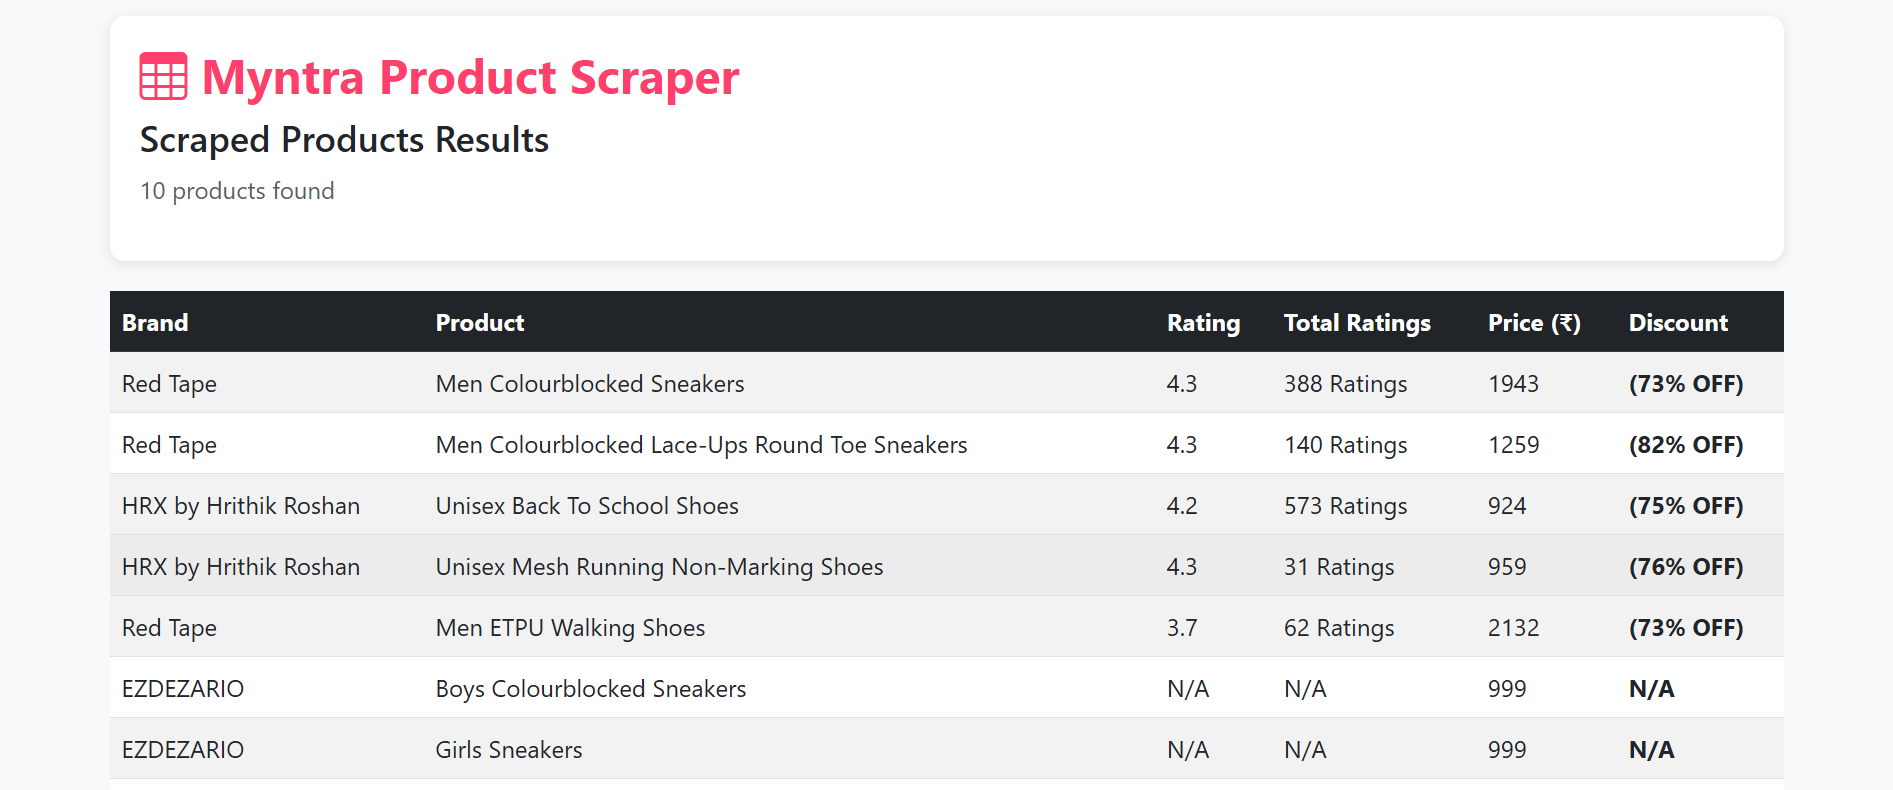
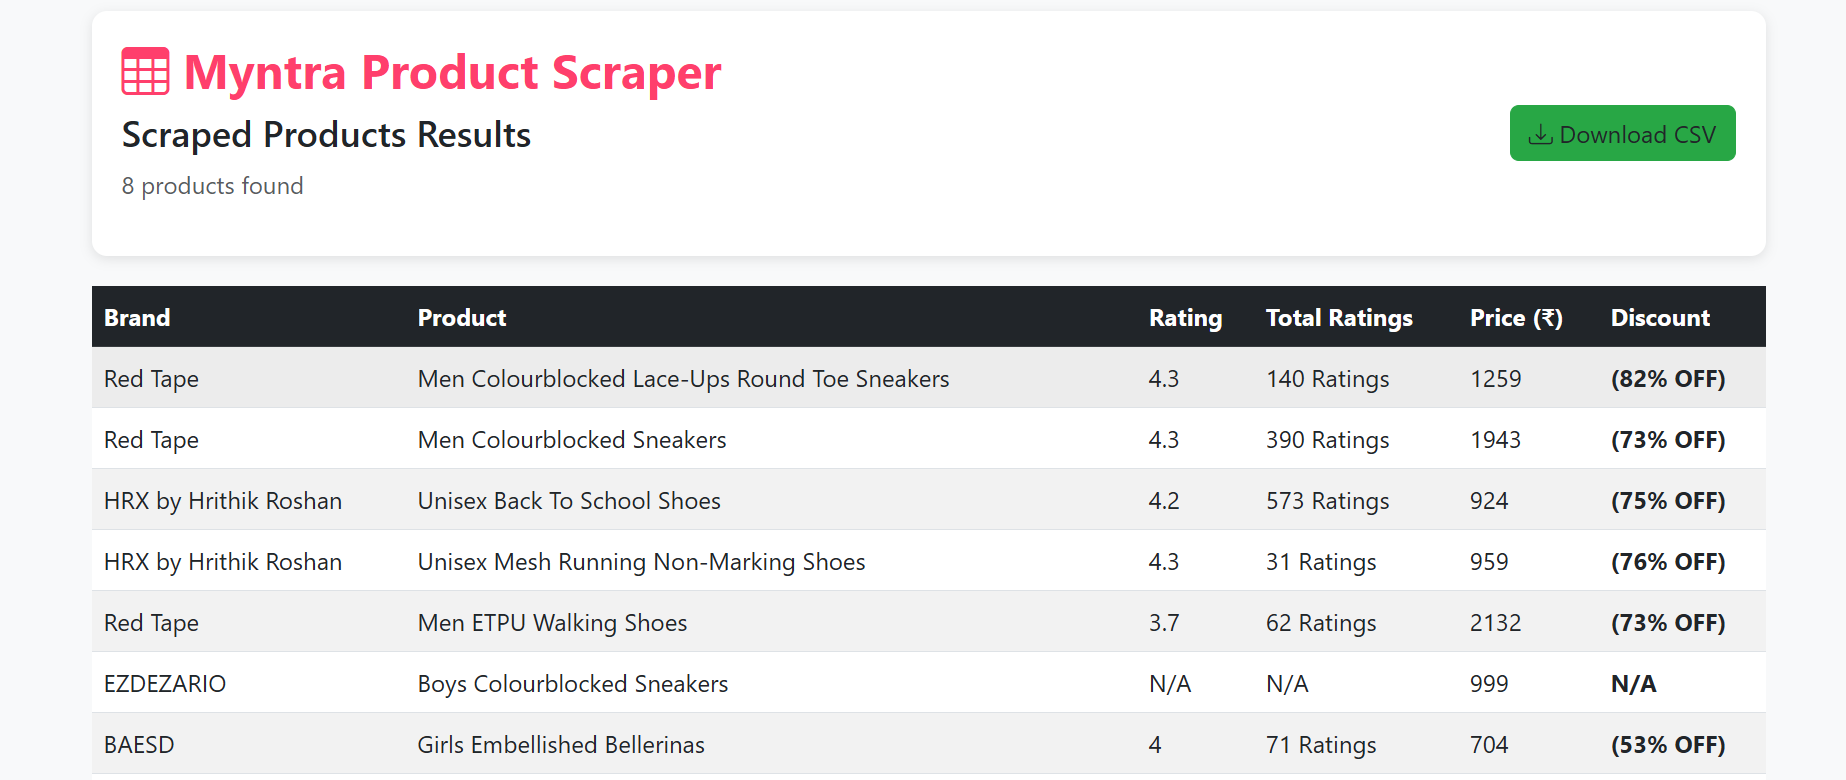
Now, users can download the extracted data in CSV format.

diff --git a/templates/results.html b/templates/results.html
@@ -39,14 +39,30 @@
             color: #ff3f6c;
             font-weight: bold;
         }
+        .download-btn {
+            background-color: #28a745;
+            border-color: #28a745;
+            margin-left: 10px;
+        }
+        .download-btn:hover {
+            background-color: #218838;
+            border-color: #1e7e34;
+        }
     </style>
 </head>
 <body>
     <div class="container">
         <div class="results-header">
-            <h2 class="logo"><i class="bi bi-table"></i> Myntra Product Scraper</h2>
-            <h4>Scraped Products Results</h4>
-            <p class="text-muted">{{ products|length }} products found</p>
+            <div class="d-flex justify-content-between align-items-center">
+                <div>
+                    <h2 class="logo"><i class="bi bi-table"></i> Myntra Product Scraper</h2>
+                    <h4>Scraped Products Results</h4>
+                    <p class="text-muted">{{ products|length }} products found</p>
+                </div>
+                <a href="/download_csv" class="btn download-btn">
+                    <i class="bi bi-download"></i> Download CSV
+                </a>
+            </div>
         </div>
 
         <div class="table-responsive">
@@ -82,6 +98,7 @@
             </a>
         </div>
     </div>
+
     <script src="https://cdn.jsdelivr.net/npm/bootstrap@5.3.0/dist/js/bootstrap.bundle.min.js"></script>
 </body>
 </html>

diff --git a/app.py b/app.py
@@ -1,7 +1,8 @@
-from flask import Flask, render_template, request, redirect, url_for, jsonify
+from flask import Flask, send_file, render_template, request, redirect, url_for, jsonify
 import pandas as pd
 import time
 import threading
+from io import BytesIO
 from typing import List, Dict, Any, Optional
 from selenium import webdriver
 from selenium.webdriver.common.by import By
@@ -37,6 +38,28 @@ def reset_scraping_status() -> None:
 def configure_driver() -> webdriver.Chrome:
     """Configures and returns a headless Chrome WebDriver."""
     return webdriver.Chrome()
+
+def save_to_csv(data):
+    csv_buffer = BytesIO()
+    df = pd.DataFrame(data)
+    df.to_csv(csv_buffer, index=False) #type: ignore
+    csv_buffer.seek(0)
+    return csv_buffer
+
+
+@app.route('/download_csv')
+def download_csv():
+    """Route for downloading CSV file"""
+    if not scraping_status['data']:
+        return redirect(url_for('index'))
+
+    csv_buffer = save_to_csv(scraping_status['data'])
+    return send_file(
+        csv_buffer,
+        mimetype='text/csv',
+        as_attachment=True,
+        download_name='myntra_products.csv'
+    )
 
 def get_product_urls(driver: webdriver.Chrome, keyword: str, max_pages: int = 3) -> List[str]:
     """Fetches product URLs from Myntra search results."""
@@ -171,7 +194,8 @@ def get_progress():
 def results():
     if not scraping_status['is_complete'] or not scraping_status['data']:
         return redirect(url_for('index'))
-    return render_template('results.html', products=scraping_status['data'])
+    data = scraping_status['data']
+    return render_template('results.html', products=data)
 
 if __name__ == '__main__':
     app.run(host='0.0.0.0', debug=True)
